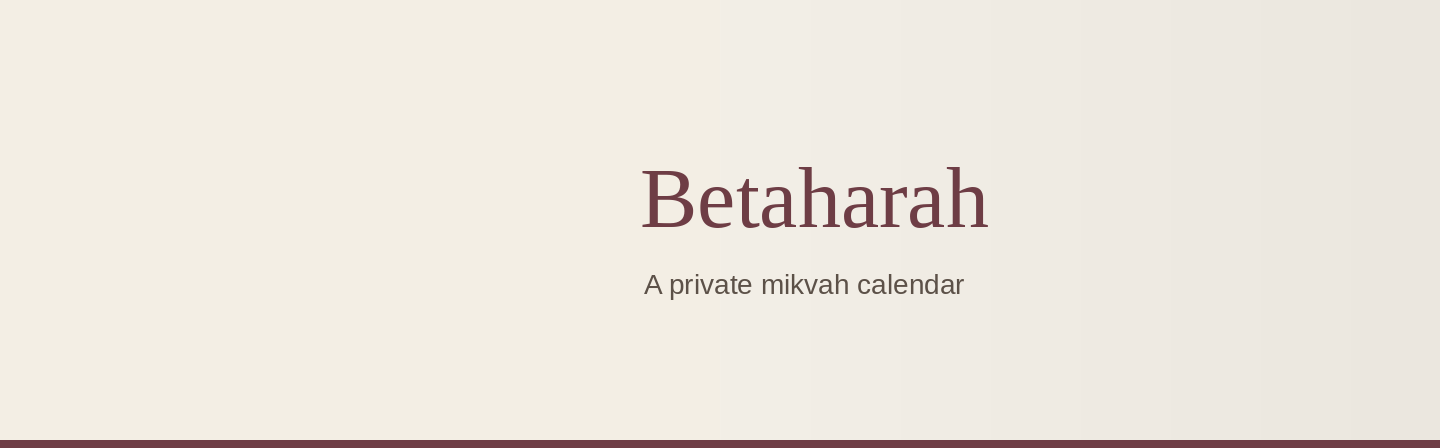
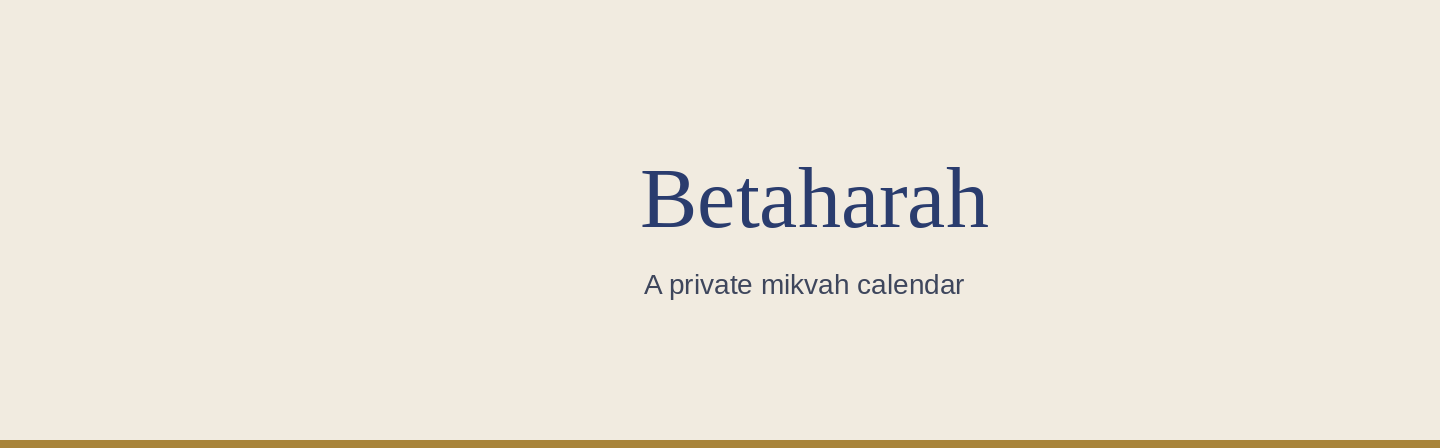
Switch the site to the Tekhelet Waters palette.
Deep blue replaces the wine accent on the theme, the disc mark, and the calendar color. Gold is the secondary accent where it still meets contrast, and onah events use Google's Blueberry.

Changed region(s): [[0.4375, 0.375, 0.6875, 0.5312], [0.0, 0.9688, 1.0, 1.0], [0.4375, 0.625, 0.6875, 0.6562]]

diff --git a/public/site.css b/public/site.css
@@ -1,28 +1,29 @@
 :root {
-  --bg: #f3eee4;
-  --bg-deep: #e7dfd0;
-  --card: #fffdf8;
-  --ink: #2a241c;
-  --muted: #5c5148;
-  --line: #e4d9c8;
-  --accent: #6e3d45;
-  --accent-ink: #fffaf6;
-  --accent-soft: #f6e8e6;
-  --warn-bg: #fbf3df;
+  --bg: #f1ebe0;
+  --bg-deep: #e4dccb;
+  --card: #fffcf8;
+  --ink: #1c2230;
+  --muted: #3e465c;
+  --line: #ddd4c4;
+  --accent: #2a3c6e;
+  --accent-ink: #fffcf8;
+  --accent-soft: #e6eaf4;
+  --gold: #a8843a;
+  --warn-bg: #f8f1e2;
   --warn-line: #e0c98a;
-  --info-bg: #f4eee3;
-  --info-line: #d9cdb6;
-  --ok: #2c6b4e;
-  --ok-bg: #e6f2eb;
+  --info-bg: #eef1f8;
+  --info-line: #c5d0e6;
+  --ok: #1f5c40;
+  --ok-bg: #e5f2eb;
   --bad: #8c2e2a;
   --bad-bg: #f8e7e5;
-  --flow: #8d3d55;
-  --onah: #9a4030;
-  --light: #b07a3a;
-  --hefsek: #8a6a2f;
-  --clean: #3d6a74;
-  --mikvah: #2c6b4e;
-  --shadow: 0 1px 2px rgba(42, 36, 28, 0.04), 0 10px 28px rgba(42, 36, 28, 0.05);
+  --flow: #3d5a9a;
+  --onah: #2a3c6e;
+  --light: #a8843a;
+  --hefsek: #6e5a2e;
+  --clean: #3a6278;
+  --mikvah: #1f5c40;
+  --shadow: 0 1px 2px rgba(28, 34, 48, 0.04), 0 10px 28px rgba(28, 34, 48, 0.05);
   --serif: "Iowan Old Style", Palatino, "Palatino Linotype", Georgia, "Noto Serif", serif;
   --sans: "Avenir Next", "Segoe UI", system-ui, "Noto Sans Hebrew", sans-serif;
   color-scheme: light dark;
@@ -30,27 +31,28 @@
 
 @media (prefers-color-scheme: dark) {
   :root {
-    --bg: #1b1714;
-    --bg-deep: #14110e;
-    --card: #262019;
-    --ink: #f6efe6;
-    --muted: #cbbbaa;
-    --line: #3c332b;
-    --accent: #e7b7b0;
-    --accent-ink: #2a1618;
-    --accent-soft: #3a2a2c;
+    --bg: #12151e;
+    --bg-deep: #0c0e14;
+    --card: #1c2230;
+    --ink: #f1ebe0;
+    --muted: #c9d0e4;
+    --line: #2e3548;
+    --accent: #c5d2f0;
+    --accent-ink: #12151e;
+    --accent-soft: #243049;
+    --gold: #e2c48a;
     --warn-bg: #3a311c;
     --warn-line: #a8883a;
-    --info-bg: #2c261e;
-    --info-line: #5c4e3c;
+    --info-bg: #1c2436;
+    --info-line: #3a4a6e;
     --ok: #8dceb0;
     --ok-bg: #1c3328;
     --bad: #f0a8a2;
     --bad-bg: #3a2220;
-    --flow: #e7a0b4;
-    --onah: #f0a090;
-    --light: #e8c08a;
-    --hefsek: #e6d09a;
+    --flow: #9bb0e0;
+    --onah: #c5d2f0;
+    --light: #e2c48a;
+    --hefsek: #d4bc86;
     --clean: #9fd0d8;
     --mikvah: #8dceb0;
     --shadow: 0 10px 28px rgba(0, 0, 0, 0.28);
@@ -732,7 +734,7 @@ code,
 }
 .toast.bad {
   background: var(--bad);
-  color: #fffaf6;
+  color: #fffcf8;
 }
 hr {
   border: none;

diff --git a/test/review.test.ts b/test/review.test.ts
@@ -35,10 +35,11 @@ describe('public copy and the dashboard shell', () => {
     expect(admin).toContain('S.urls.rcsWebhook');
   });
 
-  it('the wine-disc mark is the icon on every page, and the old rounded mark is gone', () => {
+  it('the tekhelet disc is the icon on every page, and the old rounded mark is gone', () => {
     const svg = readFileSync('public/favicon.svg', 'utf8');
     expect(svg).toContain('<circle');
-    expect(svg).toContain('#6e3d45');
+    expect(svg).toContain('#2a3c6e');
+    expect(svg).not.toContain('#6e3d45');
     expect(svg).not.toContain('<rect');
     const ico = readFileSync('public/favicon.ico');
     expect(ico.readUInt16LE(2)).toBe(1);
@@ -58,7 +59,8 @@ describe('public copy and the dashboard shell', () => {
     png('public/icons/icon-maskable-512.png', 512, 512);
     png('public/brand/og-1200x630.png', 1200, 630);
     const manifest = JSON.parse(readFileSync('public/site.webmanifest', 'utf8'));
-    expect(manifest.theme_color).toBe('#6e3d45');
+    expect(manifest.theme_color).toBe('#2a3c6e');
+    expect(manifest.background_color).toBe('#f1ebe0');
     expect(manifest.icons.map((i: { sizes: string; purpose: string }) => `${i.sizes} ${i.purpose}`)).toEqual([
       '192x192 any',
       '512x512 any',
@@ -73,7 +75,7 @@ describe('public copy and the dashboard shell', () => {
       expect(html, file).toContain('href="/favicon.svg"');
       expect(html, file).toContain('href="/apple-touch-icon.png"');
       expect(html, file).toContain('href="/site.webmanifest"');
-      expect(html, file).toContain('content="#6e3d45"');
+      expect(html, file).toContain('content="#2a3c6e"');
       expect(html, file).toContain('name="twitter:card" content="summary_large_image"');
       expect(html, file).toContain(share);
     }

diff --git a/test/app.api.test.ts b/test/app.api.test.ts
@@ -1510,7 +1510,7 @@ describe('the calendar subscription link', () => {
     expect(feed.res.headers.get('x-robots-tag')).toBe('noindex');
     expect(feed.text).toContain('BEGIN:VCALENDAR');
     expect(feed.text).toContain('X-WR-CALNAME:Betaharah');
-    expect(feed.text).toContain('COLOR:#6E3D45');
+    expect(feed.text).toContain('COLOR:#2A3C6E');
     expect(feed.text.replace(/\r\n /g, '')).toContain('https://betaharah.com/brand/logo-224.png');
     expect(feed.text).toContain('SUMMARY:Hefsek taharah (by 4:33 PM)');
     expect(feed.text.match(/BEGIN:VEVENT/g)!.length).toBe((await c.state()).upcoming.length + 1); // and the flow, which is past

diff --git a/test/calendar.test.ts b/test/calendar.test.ts
@@ -316,7 +316,7 @@ describe('the calendar feed', () => {
     expect(ics).not.toMatch(/[^\r]\n/); // every line ends CR LF
     expect(lines).toContain('VERSION:2.0');
     expect(lines).toContain('X-WR-CALNAME:Betaharah\\, home');
-    expect(lines).toContain('COLOR:#6E3D45');
+    expect(lines).toContain('COLOR:#2A3C6E');
     expect(ics.replace(/\r\n /g, '')).toContain('IMAGE;VALUE=URI;DISPLAY=BADGE;FMTTYPE=image/png:https://betaharah.com/brand/logo-224.png');
     expect(lines.filter(l => l === 'BEGIN:VEVENT')).toHaveLength(events.length);
     expect(lines.filter(l => l === 'END:VEVENT')).toHaveLength(events.length);

diff --git a/test/app.units.test.ts b/test/app.units.test.ts
@@ -324,7 +324,7 @@ describe('planning a calendar sync', () => {
     expect(d.resource.end).toEqual({ dateTime: '2026-12-21T21:35:00.000Z', timeZone: 'America/New_York' });
     expect(d.resource.extendedProperties.private).toEqual({ mk: '1', k: 'onah:1', h: d.hash });
     expect(d.resource.transparency).toBe('transparent');
-    expect(d.resource.colorId).toBe('11');
+    expect(d.resource.colorId).toBe('9');
     expect(d.endMs).toBe(timed.timed!.end);
     expect((toDesired({ ...timed, light: true }, 'America/New_York')).resource.colorId).toBe('6');
 

diff --git a/src/app/pages.ts b/src/app/pages.ts
@@ -28,7 +28,7 @@ function layout(title: string, body: string, indexable = false, path = '/'): str
 <link rel="icon" href="/favicon.svg" type="image/svg+xml">
 <link rel="apple-touch-icon" href="/apple-touch-icon.png">
 <link rel="manifest" href="/site.webmanifest">
-<meta name="theme-color" content="#6e3d45">
+<meta name="theme-color" content="#2a3c6e">
 <meta property="og:site_name" content="Betaharah">
 <meta property="og:type" content="website">
 <meta property="og:title" content="${escapeHtml(full)}">

diff --git a/public/index.html b/public/index.html
@@ -10,7 +10,7 @@
     <link rel="icon" href="/favicon.svg" type="image/svg+xml" />
     <link rel="apple-touch-icon" href="/apple-touch-icon.png" />
     <link rel="manifest" href="/site.webmanifest" />
-    <meta name="theme-color" content="#6e3d45" />
+    <meta name="theme-color" content="#2a3c6e" />
     <meta property="og:site_name" content="Betaharah" />
     <meta property="og:type" content="website" />
     <meta property="og:title" content="Betaharah: a mikvah calendar by text message" />

diff --git a/src/app/ics.ts b/src/app/ics.ts
@@ -50,8 +50,8 @@ export function toICalendar(events: readonly CalendarEvent[], name: string, now:
     'METHOD:PUBLISH',
     `NAME:${escapeText(name)}`,
     `X-WR-CALNAME:${escapeText(name)}`,
-    'COLOR:#6E3D45',
-    'X-APPLE-CALENDAR-COLOR:#6E3D45',
+    'COLOR:#2A3C6E',
+    'X-APPLE-CALENDAR-COLOR:#2A3C6E',
     'IMAGE;VALUE=URI;DISPLAY=BADGE;FMTTYPE=image/png:https://betaharah.com/brand/logo-224.png',
     'REFRESH-INTERVAL;VALUE=DURATION:PT1H',
     'X-PUBLISHED-TTL:PT1H',

diff --git a/public/admin/index.html b/public/admin/index.html
@@ -10,7 +10,7 @@
     <link rel="icon" href="/favicon.svg" type="image/svg+xml" />
     <link rel="apple-touch-icon" href="/apple-touch-icon.png" />
     <link rel="manifest" href="/site.webmanifest" />
-    <meta name="theme-color" content="#6e3d45" />
+    <meta name="theme-color" content="#2a3c6e" />
     <meta property="og:site_name" content="Betaharah" />
     <meta property="og:type" content="website" />
     <meta property="og:title" content="Betaharah operator console" />

diff --git a/public/app/index.html b/public/app/index.html
@@ -10,7 +10,7 @@
     <link rel="icon" href="/favicon.svg" type="image/svg+xml" />
     <link rel="apple-touch-icon" href="/apple-touch-icon.png" />
     <link rel="manifest" href="/site.webmanifest" />
-    <meta name="theme-color" content="#6e3d45" />
+    <meta name="theme-color" content="#2a3c6e" />
     <meta property="og:site_name" content="Betaharah" />
     <meta property="og:type" content="website" />
     <meta property="og:title" content="Betaharah" />

diff --git a/src/app/sync.ts b/src/app/sync.ts
@@ -13,7 +13,7 @@ import type { EventResource, ExistingEvent, GoogleCalendar } from './google';
 
 const COLOR: Record<CalendarEvent['kind'], string> = {
   flow: '4', // flamingo
-  onah: '11', // tomato
+  onah: '9', // blueberry, the closest Google calendar color to tekhelet #2A3C6E
   hefsek: '5', // banana
   clean_day: '7', // peacock
   mikvah: '10', // basil
